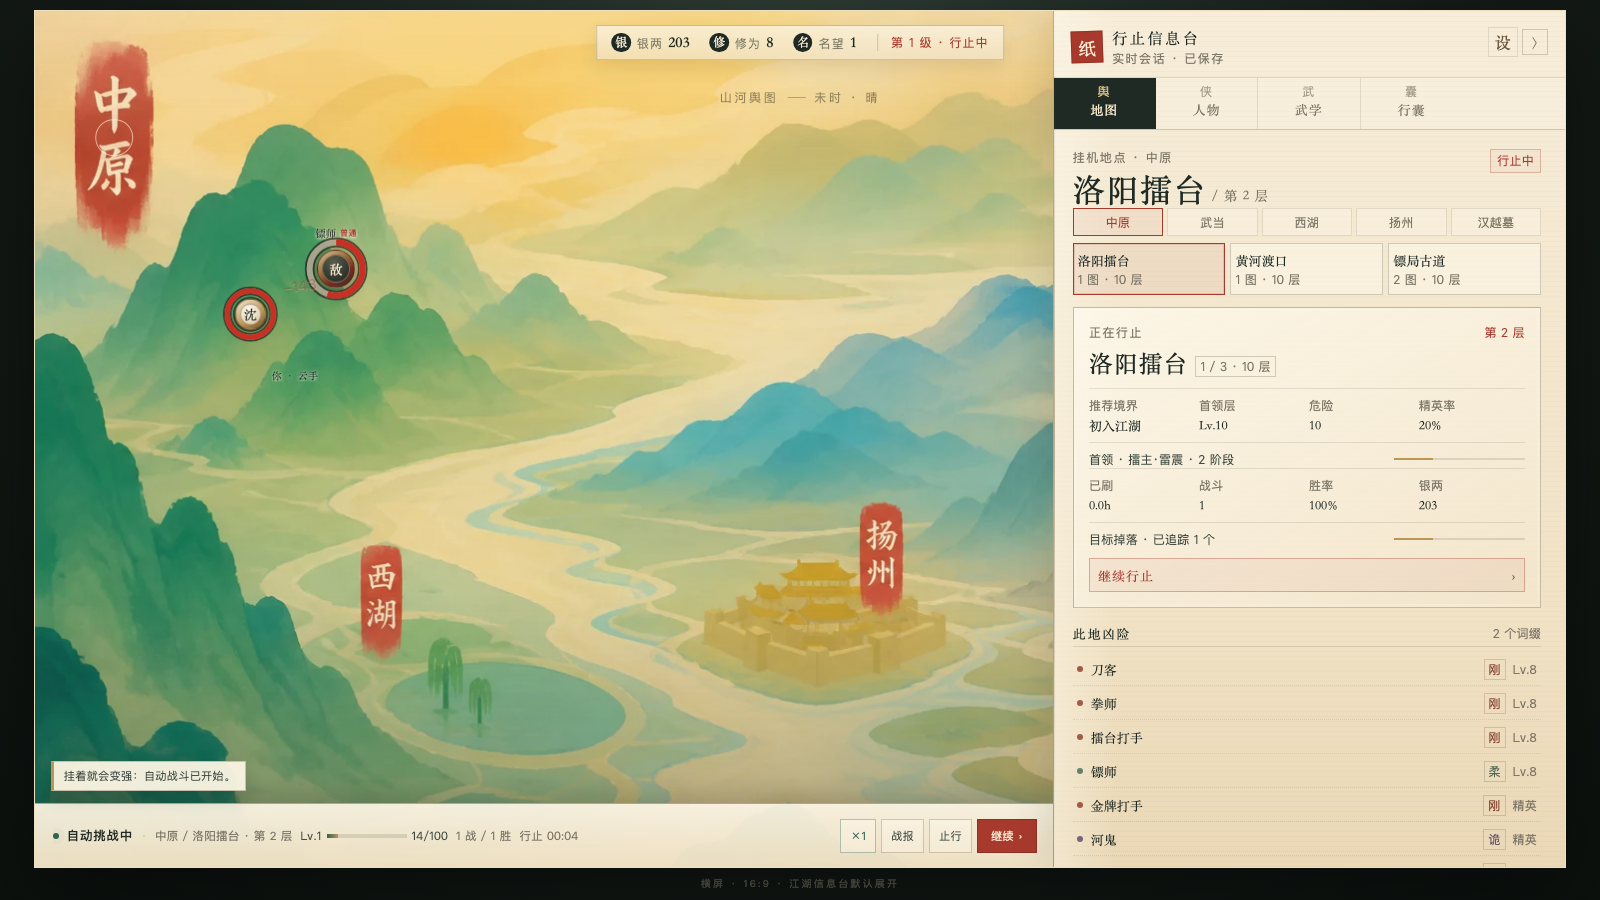
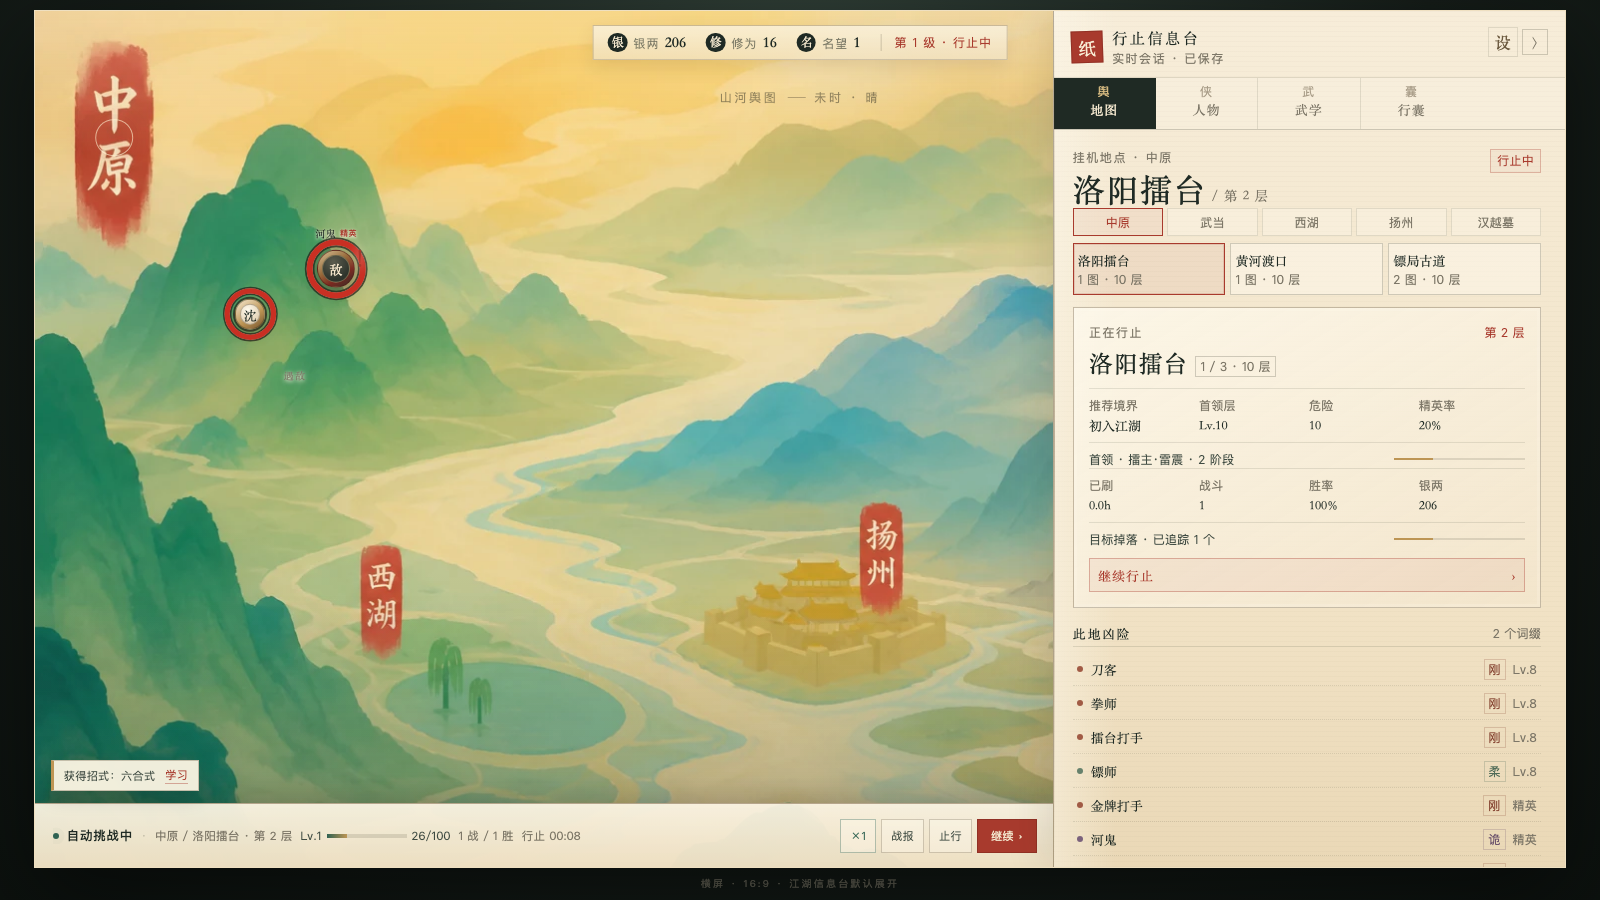
feat(ui): brush skill callouts and larger damage

diff --git a/src/ui/styles.css b/src/ui/styles.css
@@ -1981,3 +1981,149 @@ html[data-reduced-motion="true"] *, html[data-reduced-motion="true"] *::before, 
 }
 .cluster-outcome.skill-active { color: var(--ink) !important; font-size: 10px !important; letter-spacing: .03em !important; }
 .cluster-outcome.skill-active { max-width: 100%; overflow: hidden; text-overflow: ellipsis; white-space: nowrap; }
+/* brush-style skill banner: the move name becomes the effect */
+.skill-banner {
+  position: absolute;
+  z-index: 16;
+  top: 2px;
+  width: 76px;
+  pointer-events: none;
+  color: var(--ink);
+  filter: drop-shadow(0 3px 6px rgba(40, 28, 18, .24));
+}
+.skill-banner.side-player { left: -78px; text-align: right; }
+.skill-banner.side-enemy { right: -78px; text-align: left; }
+.skill-title {
+  position: relative;
+  z-index: 2;
+  display: block;
+  writing-mode: vertical-rl;
+  text-orientation: upright;
+  font-family: var(--serif);
+  font-size: clamp(19px, 1.55vw, 27px);
+  font-weight: 700;
+  line-height: 1.02;
+  letter-spacing: .08em;
+  color: #2f2a21;
+  text-shadow: 0 1px 0 rgba(255, 246, 224, .95), 0 4px 12px rgba(30, 22, 15, .2);
+}
+.side-player .skill-title { margin-left: auto; }
+.skill-title i {
+  display: block;
+  font-style: normal;
+  opacity: 0;
+  transform: translateY(-5px) scale(1.35);
+  animation: skill-char-in .32s cubic-bezier(.2, 1.2, .3, 1) forwards;
+}
+.skill-ink {
+  position: absolute;
+  z-index: 1;
+  left: 50%;
+  top: 50%;
+  width: 115px;
+  height: 160px;
+  transform: translate(-50%, -50%) rotate(-8deg);
+  background:
+    radial-gradient(ellipse at 45% 35%, rgba(35, 30, 22, .17), transparent 62%),
+    linear-gradient(105deg, transparent 20%, rgba(168, 58, 45, .2) 48%, transparent 72%);
+  filter: blur(6px);
+  animation: skill-ink-in .75s ease-out both;
+}
+.skill-cut {
+  position: absolute;
+  z-index: 3;
+  width: 86px;
+  height: 2px;
+  background: linear-gradient(90deg, transparent, rgba(255, 246, 222, .95), transparent);
+  transform-origin: center;
+  animation: skill-cut .5s ease-out both;
+}
+.skill-cut.cut-a { top: 34%; right: -10px; transform: rotate(-38deg); }
+.skill-cut.cut-b { top: 58%; right: -22px; transform: rotate(26deg); animation-delay: .08s; }
+@keyframes skill-char-in {
+  to { opacity: 1; transform: translateY(0) scale(1); }
+}
+@keyframes skill-ink-in {
+  0% { opacity: 0; transform: translate(-50%, -50%) rotate(-8deg) scale(.55); }
+  35% { opacity: 1; transform: translate(-50%, -50%) rotate(-8deg) scale(1.05); }
+  100% { opacity: 0; transform: translate(-50%, -50%) rotate(-8deg) scale(1.25); }
+}
+@keyframes skill-cut {
+  0% { opacity: 0; transform: translateX(-22px) rotate(-38deg) scaleX(.35); }
+  25% { opacity: .95; }
+  100% { opacity: 0; transform: translateX(18px) rotate(-38deg) scaleX(1.15); }
+}
+.cluster-damage.hit-pop {
+  font-family: var(--serif);
+  font-size: clamp(18px, 1.6vw, 27px) !important;
+  font-weight: 700;
+  text-shadow: 0 2px 0 rgba(255, 244, 217, .9), 0 7px 18px rgba(140, 31, 22, .28);
+}
+/* stronger brush banner: vertical stack, ink stroke, slash */
+.skill-title {
+  display: flex;
+  flex-direction: column;
+  align-items: center;
+  gap: 1px;
+  writing-mode: initial;
+  text-orientation: initial;
+  font-size: clamp(24px, 1.9vw, 33px);
+  line-height: 1;
+}
+.side-player .skill-title { align-items: flex-end; }
+.skill-banner::before {
+  content: "";
+  position: absolute;
+  left: 50%;
+  top: 50%;
+  z-index: 0;
+  width: 54px;
+  height: 150%;
+  transform: translate(-50%, -50%) rotate(-5deg);
+  background: linear-gradient(180deg, transparent, rgba(38, 32, 24, .24) 28%, rgba(38, 32, 24, .1) 55%, transparent);
+  filter: blur(3px);
+  border-radius: 45%;
+  pointer-events: none;
+}
+.skill-cut { width: 104px; height: 1px; }
+.skill-cut.cut-a { top: 32%; right: -18px; }
+.skill-cut.cut-b { top: 64%; right: -30px; }
+@keyframes skill-ink-in {
+  0% { opacity: 0; transform: translate(-50%, -50%) rotate(-8deg) scale(.55); }
+  35% { opacity: 1; transform: translate(-50%, -50%) rotate(-8deg) scale(1.05); }
+  100% { opacity: .22; transform: translate(-50%, -50%) rotate(-8deg) scale(1.25); }
+}
+/* skill title sits above the duel so it is never clipped by the map stamp */
+.skill-banner,
+.skill-banner.side-player,
+.skill-banner.side-enemy {
+  left: 50%;
+  right: auto;
+  top: -44px;
+  width: max-content;
+  max-width: 280px;
+  transform: translateX(-50%);
+  text-align: center;
+  display: flex;
+  justify-content: center;
+}
+.skill-title,
+.side-player .skill-title {
+  flex-direction: row;
+  align-items: center;
+  justify-content: center;
+  gap: 2px;
+  writing-mode: horizontal-tb;
+  font-size: clamp(22px, 1.8vw, 32px);
+}
+.skill-title i { display: inline-block; }
+.skill-banner.side-enemy .skill-title { color: #6f241d; }
+.skill-banner::before {
+  width: 100%;
+  height: 44px;
+  transform: translate(-50%, -50%) rotate(-1.5deg);
+  filter: blur(4px);
+  border-radius: 40%;
+}
+.skill-cut.cut-a { top: 34%; right: 4%; width: 70%; }
+.skill-cut.cut-b { top: 64%; right: 10%; width: 54%; }

diff --git a/src/ui/App.tsx b/src/ui/App.tsx
@@ -498,7 +498,7 @@ function BattleCluster(props: {
                 const skillName = side === "player" ? next.timeline?.[index]?.playerSkill : next.timeline?.[index]?.enemySkill;
                 if (skillName) {
                   setSkillCallout({ side, name: skillName, key });
-                  pushTimer(() => setSkillCallout(null), 680);
+                  pushTimer(() => setSkillCallout(null), 900);
                 }
                 if (damage > 0) {
                   setDamagePopup({ key, amount: damage });
@@ -544,6 +544,18 @@ function BattleCluster(props: {
       role="group"
       aria-label={phase === "searching" ? "自动行止中，寻找对手" : `${phaseLabel}：${enemyLabel}`}
     >
+      {skillCallout && (
+        <div className={`skill-banner side-${skillCallout.side}`} key={`banner-${skillCallout.key}`} aria-hidden="true">
+          <span className="skill-ink" />
+          <span className="skill-title">
+            {Array.from(skillCallout.name).map((char, index) => (
+              <i key={`${char}-${index}`} style={{ animationDelay: `${index * 65}ms` }}>{char}</i>
+            ))}
+          </span>
+          <span className="skill-cut cut-a" />
+          <span className="skill-cut cut-b" />
+        </div>
+      )}
       <div className="cluster-duel">
         {phase === "searching" && (
           <>
